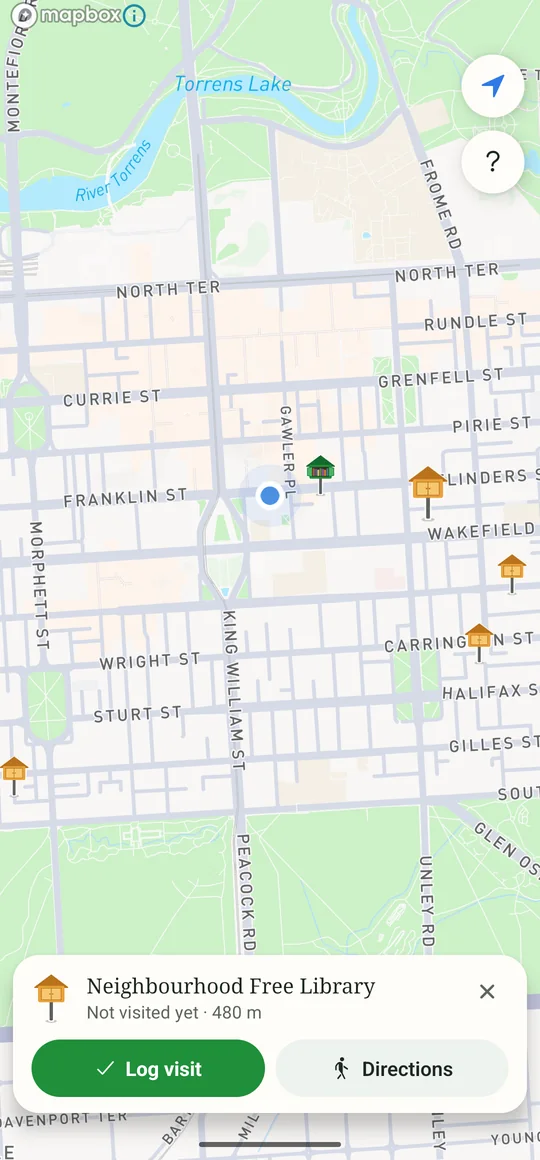
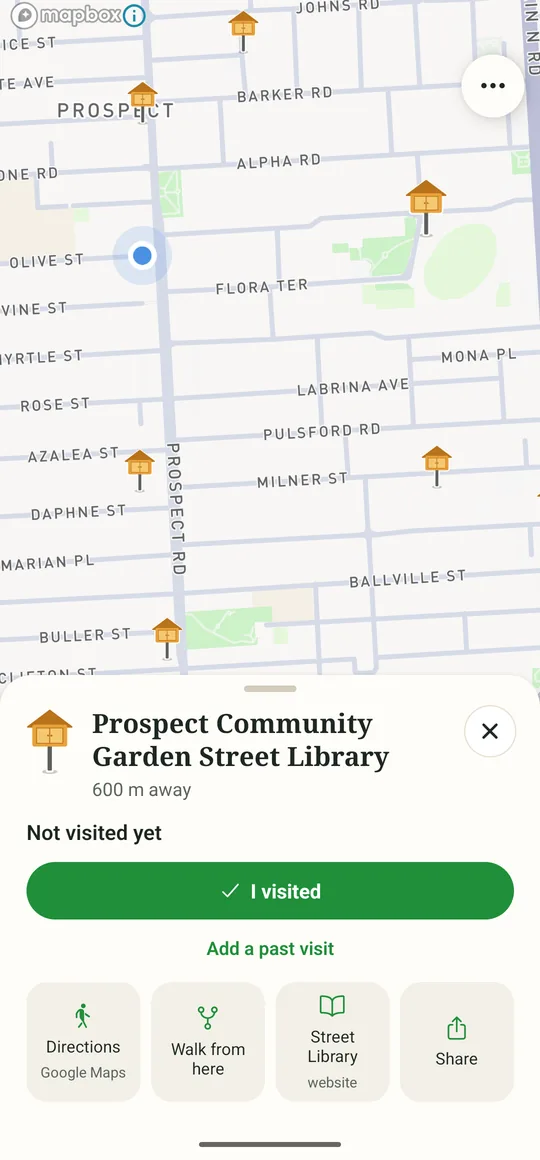
Site: new screenshots (library drawer, visit history, nearby list, walks, My visits) and copy for walks, streaks and To visit after a week

diff --git a/apps/site/public/index.html b/apps/site/public/index.html
@@ -49,7 +49,7 @@
         </div>
         <figure class="shot hero-shot">
           <img src="images/map.webp" width="540" height="1160"
-               alt="The Novel Route map of Prospect in Adelaide. Street libraries are little book boxes on posts: amber ones not yet visited, green ones visited. A card at the bottom points to the nearest one due for a visit.">
+               alt="The Novel Route map of Prospect in Adelaide. Street libraries are little book boxes on posts: amber ones not yet visited, green ones visited. A card at the bottom points to the nearest one to visit.">
         </figure>
       </div>
     </section>
@@ -60,34 +60,61 @@
           <li>
             <figure class="shot">
               <img src="images/find.webp" width="540" height="1160" loading="lazy"
-                   alt="A library selected on the map of central Adelaide, with a card showing its name, how far away it is, and buttons to log a visit or get directions">
+                   alt="A library selected on the map of Prospect in Adelaide. A panel slides up from the bottom with its name, how far away it is, an I visited button, and buttons for directions, planning a walk from there, its Street Library page and sharing">
             </figure>
             <div class="step-text">
               <h2>Find a library</h2>
-              <p>Every street library registered with Street Library Australia, with how far away it is, when you last visited and directions to the door.</p>
+              <p>Every street library registered with Street Library Australia, on the map or in a list of the nearest. Tap one to see how far away it is and when you last visited, and get directions to the door.</p>
             </div>
           </li>
           <li>
             <figure class="shot">
               <img src="images/library.webp" width="540" height="1160" loading="lazy"
-                   alt="A library's page in Novel Route: when you last visited, a Log visit button, buttons for directions and the Street Library page, and the dates of your past visits">
+                   alt="A library's details pulled up over the map: last visited 14 days ago, 3 visits, an I visited button, and the dates of your past visits">
             </figure>
             <div class="step-text">
               <h2>Record your visit</h2>
-              <p>One tap when you stop by. Novel Route remembers when you were last there, so you don't have to.</p>
+              <p>One tap on <b>I visited</b> when you stop by, or add a visit from an earlier day. Novel Route remembers when you were last there, so you don't have to.</p>
             </div>
           </li>
           <li>
             <figure class="shot">
-              <img src="images/due.webp" width="540" height="1160" loading="lazy"
-                   alt="A zoomed-out map of Adelaide with libraries grouped into circles: amber where some haven't been visited, green where they all have">
+              <img src="images/nearby.webp" width="540" height="1160" loading="lazy"
+                   alt="The Nearby libraries list showing libraries to visit, nearest first: ones not visited yet, and one last visited 14 days ago, each with its distance and direction">
             </figure>
             <div class="step-text">
               <h2>Repeat</h2>
-              <p>Shelves change all the time. Libraries you haven't seen in a while stand out on the map, ready for another browse.</p>
+              <p>Shelves change all the time. A week after your visit, a library is back on your list to visit, ready for another browse.</p>
             </div>
           </li>
         </ol>
+      </div>
+    </section>
+
+    <section class="extras">
+      <div class="wrap">
+        <ul class="step-list extra-list">
+          <li>
+            <figure class="shot">
+              <img src="images/walk.webp" width="540" height="1160" loading="lazy"
+                   alt="A planned walk on the map of Prospect: three numbered libraries joined by a green route along the streets, and a card saying 3.5 km on footpaths, back to the start, about 42 minutes walking plus 15 minutes at libraries">
+            </figure>
+            <div class="step-text">
+              <h2>Make a walk of it</h2>
+              <p>Tick a few libraries, or tap them on the map. Novel Route shows how much extra walking each one adds, then maps the route on footpaths, there and back.</p>
+            </div>
+          </li>
+          <li>
+            <figure class="shot">
+              <img src="images/visits.webp" width="540" height="1160" loading="lazy"
+                   alt="The My visits screen: a 3-week streak, 7 libraries and 12 visits, the area you've fully explored and how far out you've been, and your recent visits">
+            </figure>
+            <div class="step-text">
+              <h2>Keep a streak</h2>
+              <p>Visit a library each week to build a streak, and watch the area you've fully explored grow.</p>
+            </div>
+          </li>
+        </ul>
       </div>
     </section>
 

diff --git a/apps/site/public/styles.css b/apps/site/public/styles.css
@@ -356,6 +356,15 @@ button.button {
   margin: 0;
 }
 
+/* Walks and visits: laid out like the steps (under the first two), not numbered. */
+.extras {
+  padding: 0 0 96px;
+}
+
+.extra-list h2::before {
+  content: none;
+}
+
 /* Doors */
 .doors {
   background: var(--paper-deep);
